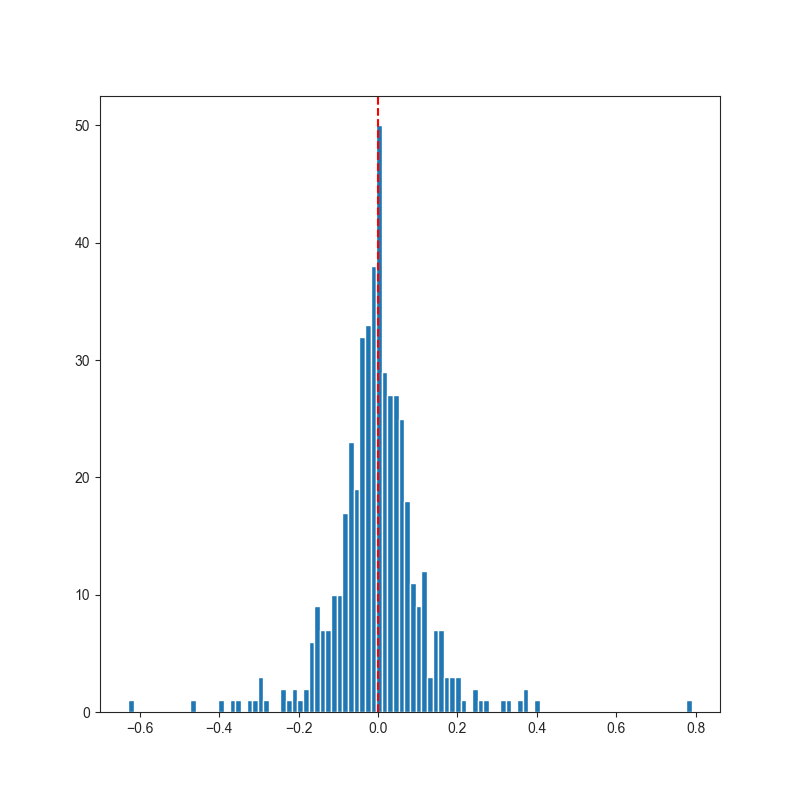
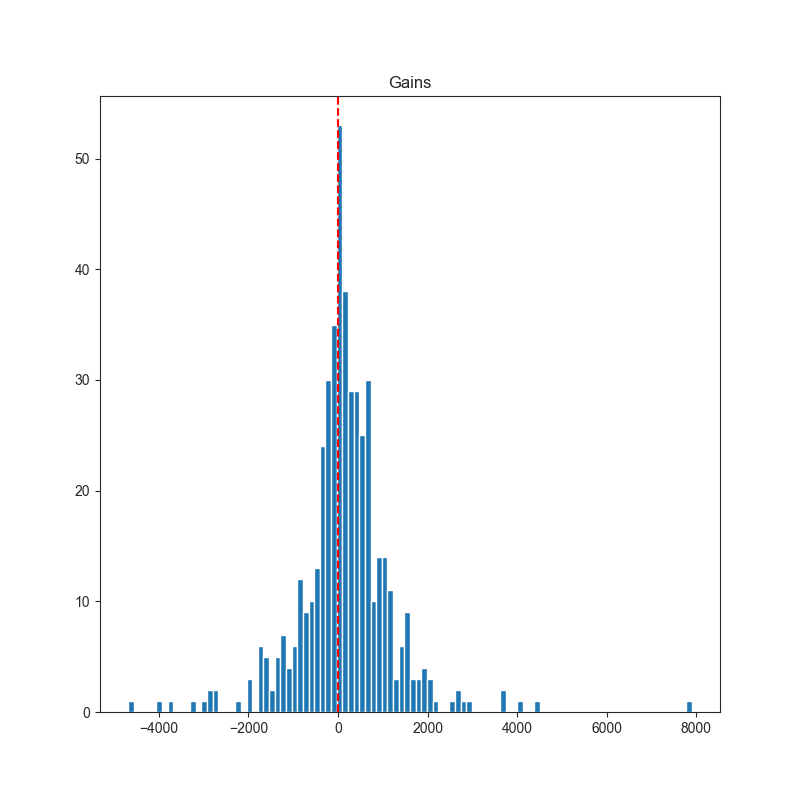
update sample

diff --git a/sample/howto/howto.py b/sample/howto/howto.py
@@ -1,14 +1,15 @@
-import datetime
-
-import numpy as np
 import pandas as pd
 from pandas_datareader.data import DataReader
 from pandas.tseries.offsets import DateOffset
 import matplotlib.pyplot as plt
 import seaborn
 
+from pandas.plotting import register_matplotlib_converters
+
 from epymetheus import Universe, Trade, TradeStrategy
 
+register_matplotlib_converters()
+seaborn.set_style('ticks')
 
 tickers = [
     'AAPL',
@@ -49,16 +50,15 @@ def fetch_equities(tickers, date_range):
 class SimpleTrendFollower(TradeStrategy):
     """
     A simple trend-following strategy.
-    Buys stocks for a month with the highest percentile one month returns
-    and sells the lowest percentile returns.
+    Buys stocks for a month with the highest percentile of one month returns.
 
     Parameters
     ----------
     - percentile : float
         The threshold to buy or sell.
-        E.g. If 0.1, buy/sell stocks with returns of highest/lowest 10%.
+        E.g. If 0.1, buy stocks with returns of highest 10%.
     """
-    def logic(self, universe, percentile):
+    def logic(self, universe, percentile, bet):
 
         watch_period = DateOffset(months=1)
         trade_period = DateOffset(months=1)
@@ -82,29 +82,24 @@ class SimpleTrendFollower(TradeStrategy):
             r = tot_returns(open_date)
             assets_sorted = sorted(universe.assets, key=lambda asset: r[asset])
 
-            long = assets_sorted[-n_trade:]
-            short = assets_sorted[:n_trade]
-
-            for asset in long:
-                lot = 1.0 / universe.data.at[open_date, asset]
+            for asset in assets_sorted[-n_trade:]:
+                lot = bet / universe.data.at[open_date, asset]
                 yield Trade(asset=asset, lot=lot, open_date=open_date, close_date=close_date)
 
-            for asset in short:
-                lot = -1.0 / universe.data.at[open_date, asset]
-                yield Trade(asset=asset, lot=lot, open_date=open_date, close_date=close_date)
 
 def plot(strategy):
-    seaborn.set_style('ticks')
-
     plt.figure(figsize=(16, 4))
     df_wealth = pd.DataFrame(strategy.wealth)
     df_wealth.index = strategy.universe.bars
     plt.plot(df_wealth)
+    plt.title('Wealth')
+    plt.ylabel('wealth / dollars')
     plt.savefig('wealth.png', linewidth=0.6)
 
     plt.figure(figsize=(8, 8))
     plt.hist(strategy.history.gains, bins=100)
     plt.axvline(0, ls='--', color='red')
+    plt.title('Gains')
     plt.savefig('gains.png')
 
     plt.figure(figsize=(16, 4))
@@ -115,16 +110,15 @@ def plot(strategy):
     plt.figure(figsize=(8, 8))
     plt.plot(df_exposure)
     plt.axhline(0, ls='--', color='gray')
+    plt.title('Exposure')
     plt.savefig('exposure.png')
 
 
 def main():
-    universe = Universe(
-        data=fetch_equities(tickers, date_range),
-        name='US Equity',
-    )
+    prices = fetch_equities(tickers, date_range)
+    universe = Universe(prices, name='US Equity')
 
-    strategy = SimpleTrendFollower(percentile=0.1)
+    strategy = SimpleTrendFollower(percentile=0.2, bet=10000)
     strategy.run(universe, verbose=True)
 
     plot(strategy)

diff --git a/epymetheus/universe.py b/epymetheus/universe.py
@@ -74,7 +74,7 @@ class Universe:
 
     @property
     def n_bars(self):
-        return self.bars.shape[0]
+        return len(self.bars)
 
     @property
     def assets(self):
@@ -86,7 +86,7 @@ class Universe:
 
     @property
     def n_assets(self):
-        return self.assets.shape[0]
+        return len(self.assets)
 
     @classmethod
     def read_csv(cls, csv, name=None, begin_bar=None, end_bar=None, **kwargs):
